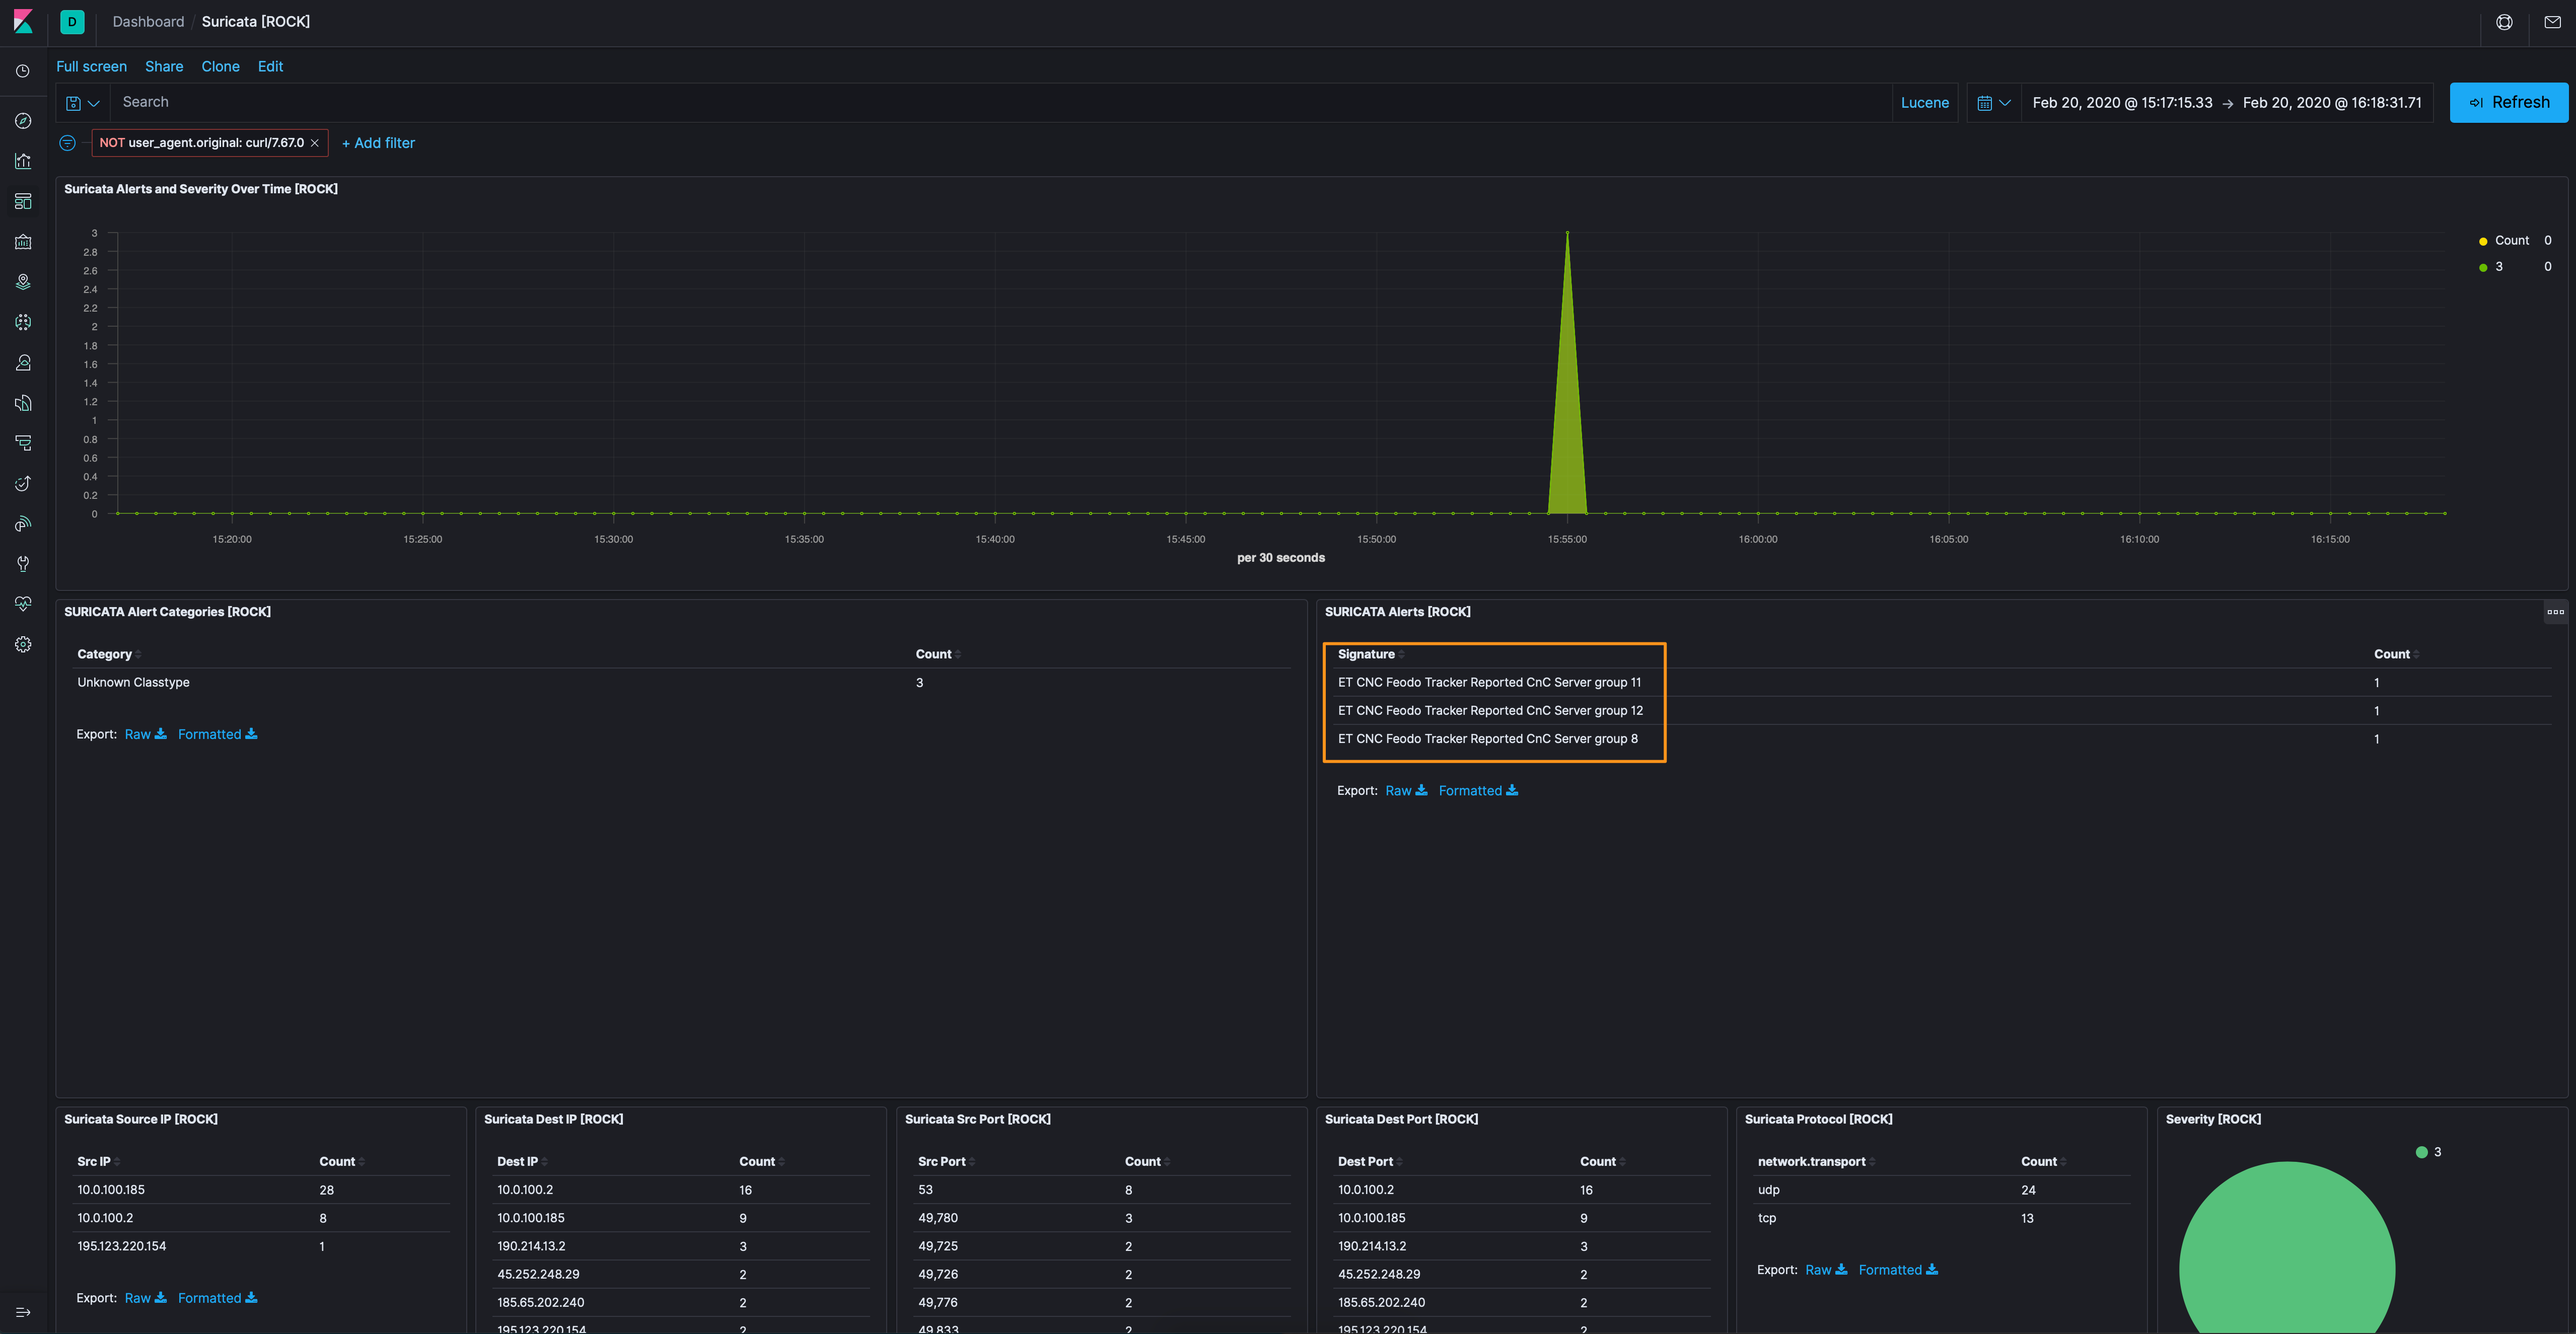
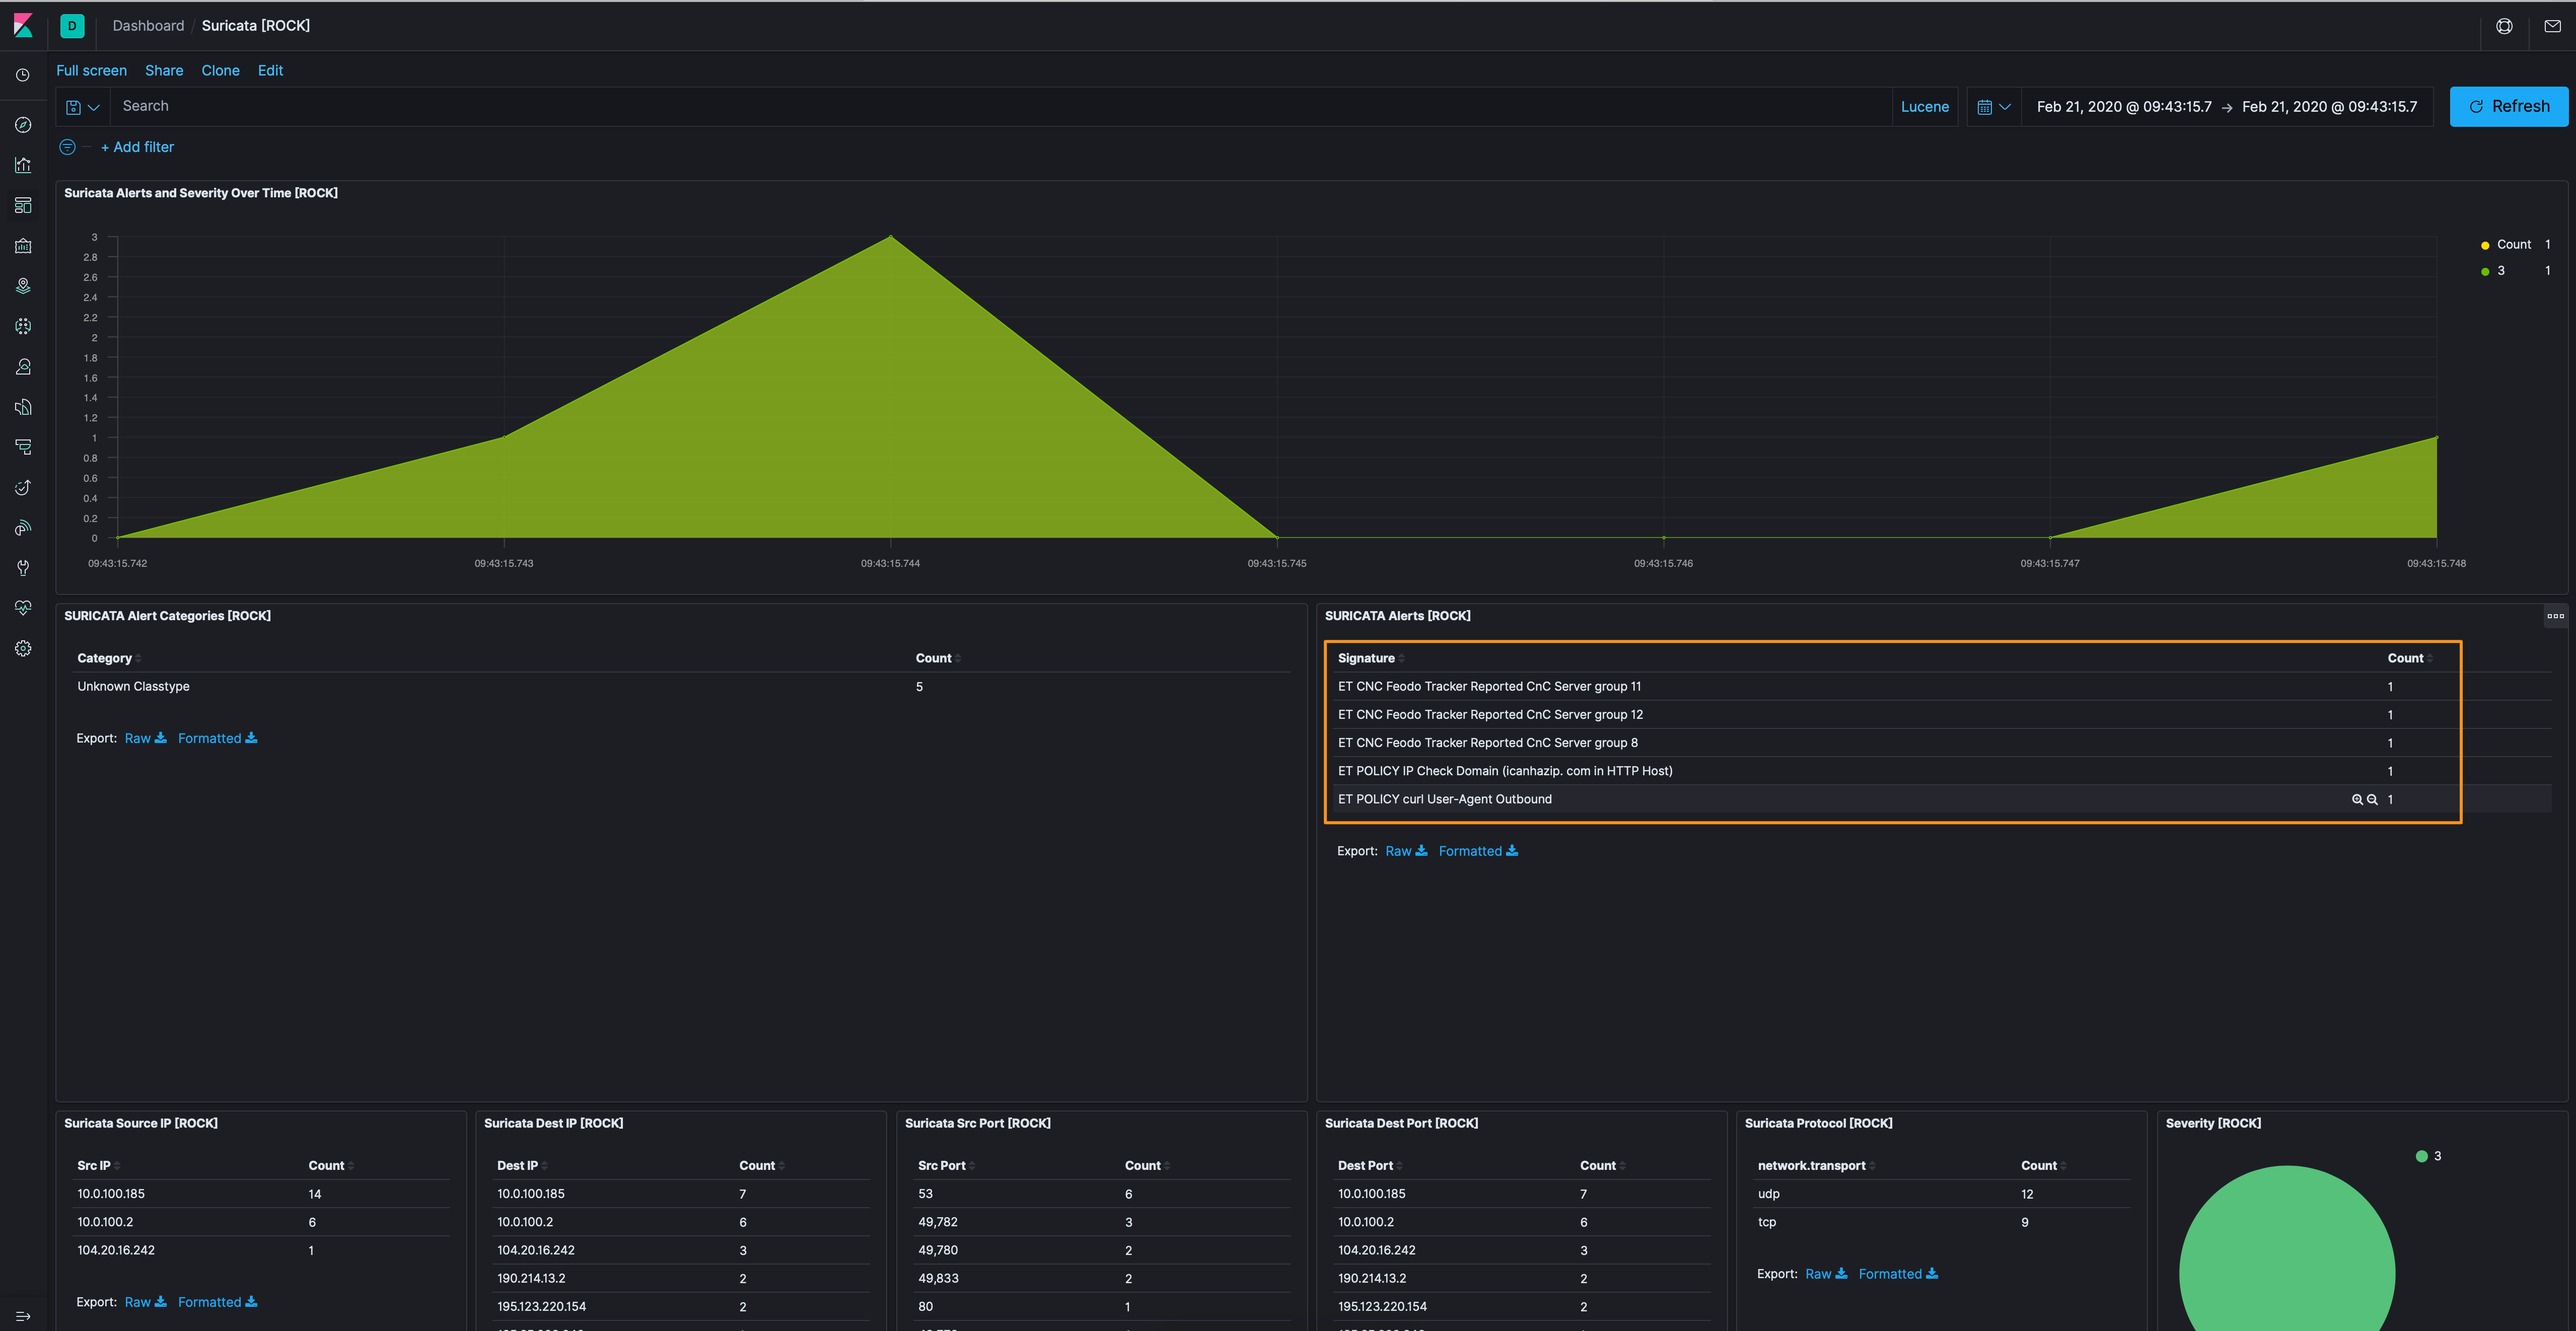
updated

diff --git a/index.md b/index.md
@@ -11,15 +11,18 @@ RockNSM is an open source network security monitoring platform built with Zeek f
 - [gtag information stealer background](https://www.fireeye.com/blog/threat-research/2019/01/a-nasty-trick-from-credential-theft-malware-to-business-disruption.html)
 
 Right out of the gate, the Suricata dashboard is telling us something is amiss.  
+
 ![](./images/2-20-20-1.png)
 
 Let's pop over to the Discover tab and see what we can ferret out. We'll apply the `alert.signature exists` filter and add `destination.ip`, `source.ip`, `alert.signature`, and `alert.metadata.tag` and, pretty maids, all in a row.
 
-| Destination IP  | Source IP    | Signature                                         | Tag            |
-|-----------------|--------------|---------------------------------------------------|----------------|
-| 195.123.220.154 | 10.0.100.185 | ET CNC Feodo Tracker Reported CnC Server group 12 | Banking_Trojan |
-| 185.65.202.240  | 10.0.100.185 | ET CNC Feodo Tracker Reported CnC Server group 8  | Banking_Trojan |
-| 190.214.13.2    | 10.0.100.185 | ET CNC Feodo Tracker Reported CnC Server group 11 | Banking_Trojan |
+| Destination IP  | Source IP    | Signature                                              | Tag            |
+|-----------------|--------------|--------------------------------------------------------|----------------|
+| 195.123.220.154 | 10.0.100.185 | ET CNC Feodo Tracker Reported CnC Server group 12      | Banking_Trojan |
+| 185.65.202.240  | 10.0.100.185 | ET CNC Feodo Tracker Reported CnC Server group 8       | Banking_Trojan |
+| 190.214.13.2    | 10.0.100.185 | ET CNC Feodo Tracker Reported CnC Server group 11      | Banking_Trojan |
+| 104.20.16.242   | 10.0.100.185 | ET POLICY curl User-Agent Outbound                     | -              |
+| 104.20.16.242   | 10.0.100.185 | ET POLICY IP Check Domain (icanhazip. com in HTTP Host)| -              |
 
 Boom, we found the Trickbot TLS connections, but what about `wecan23`?
 
